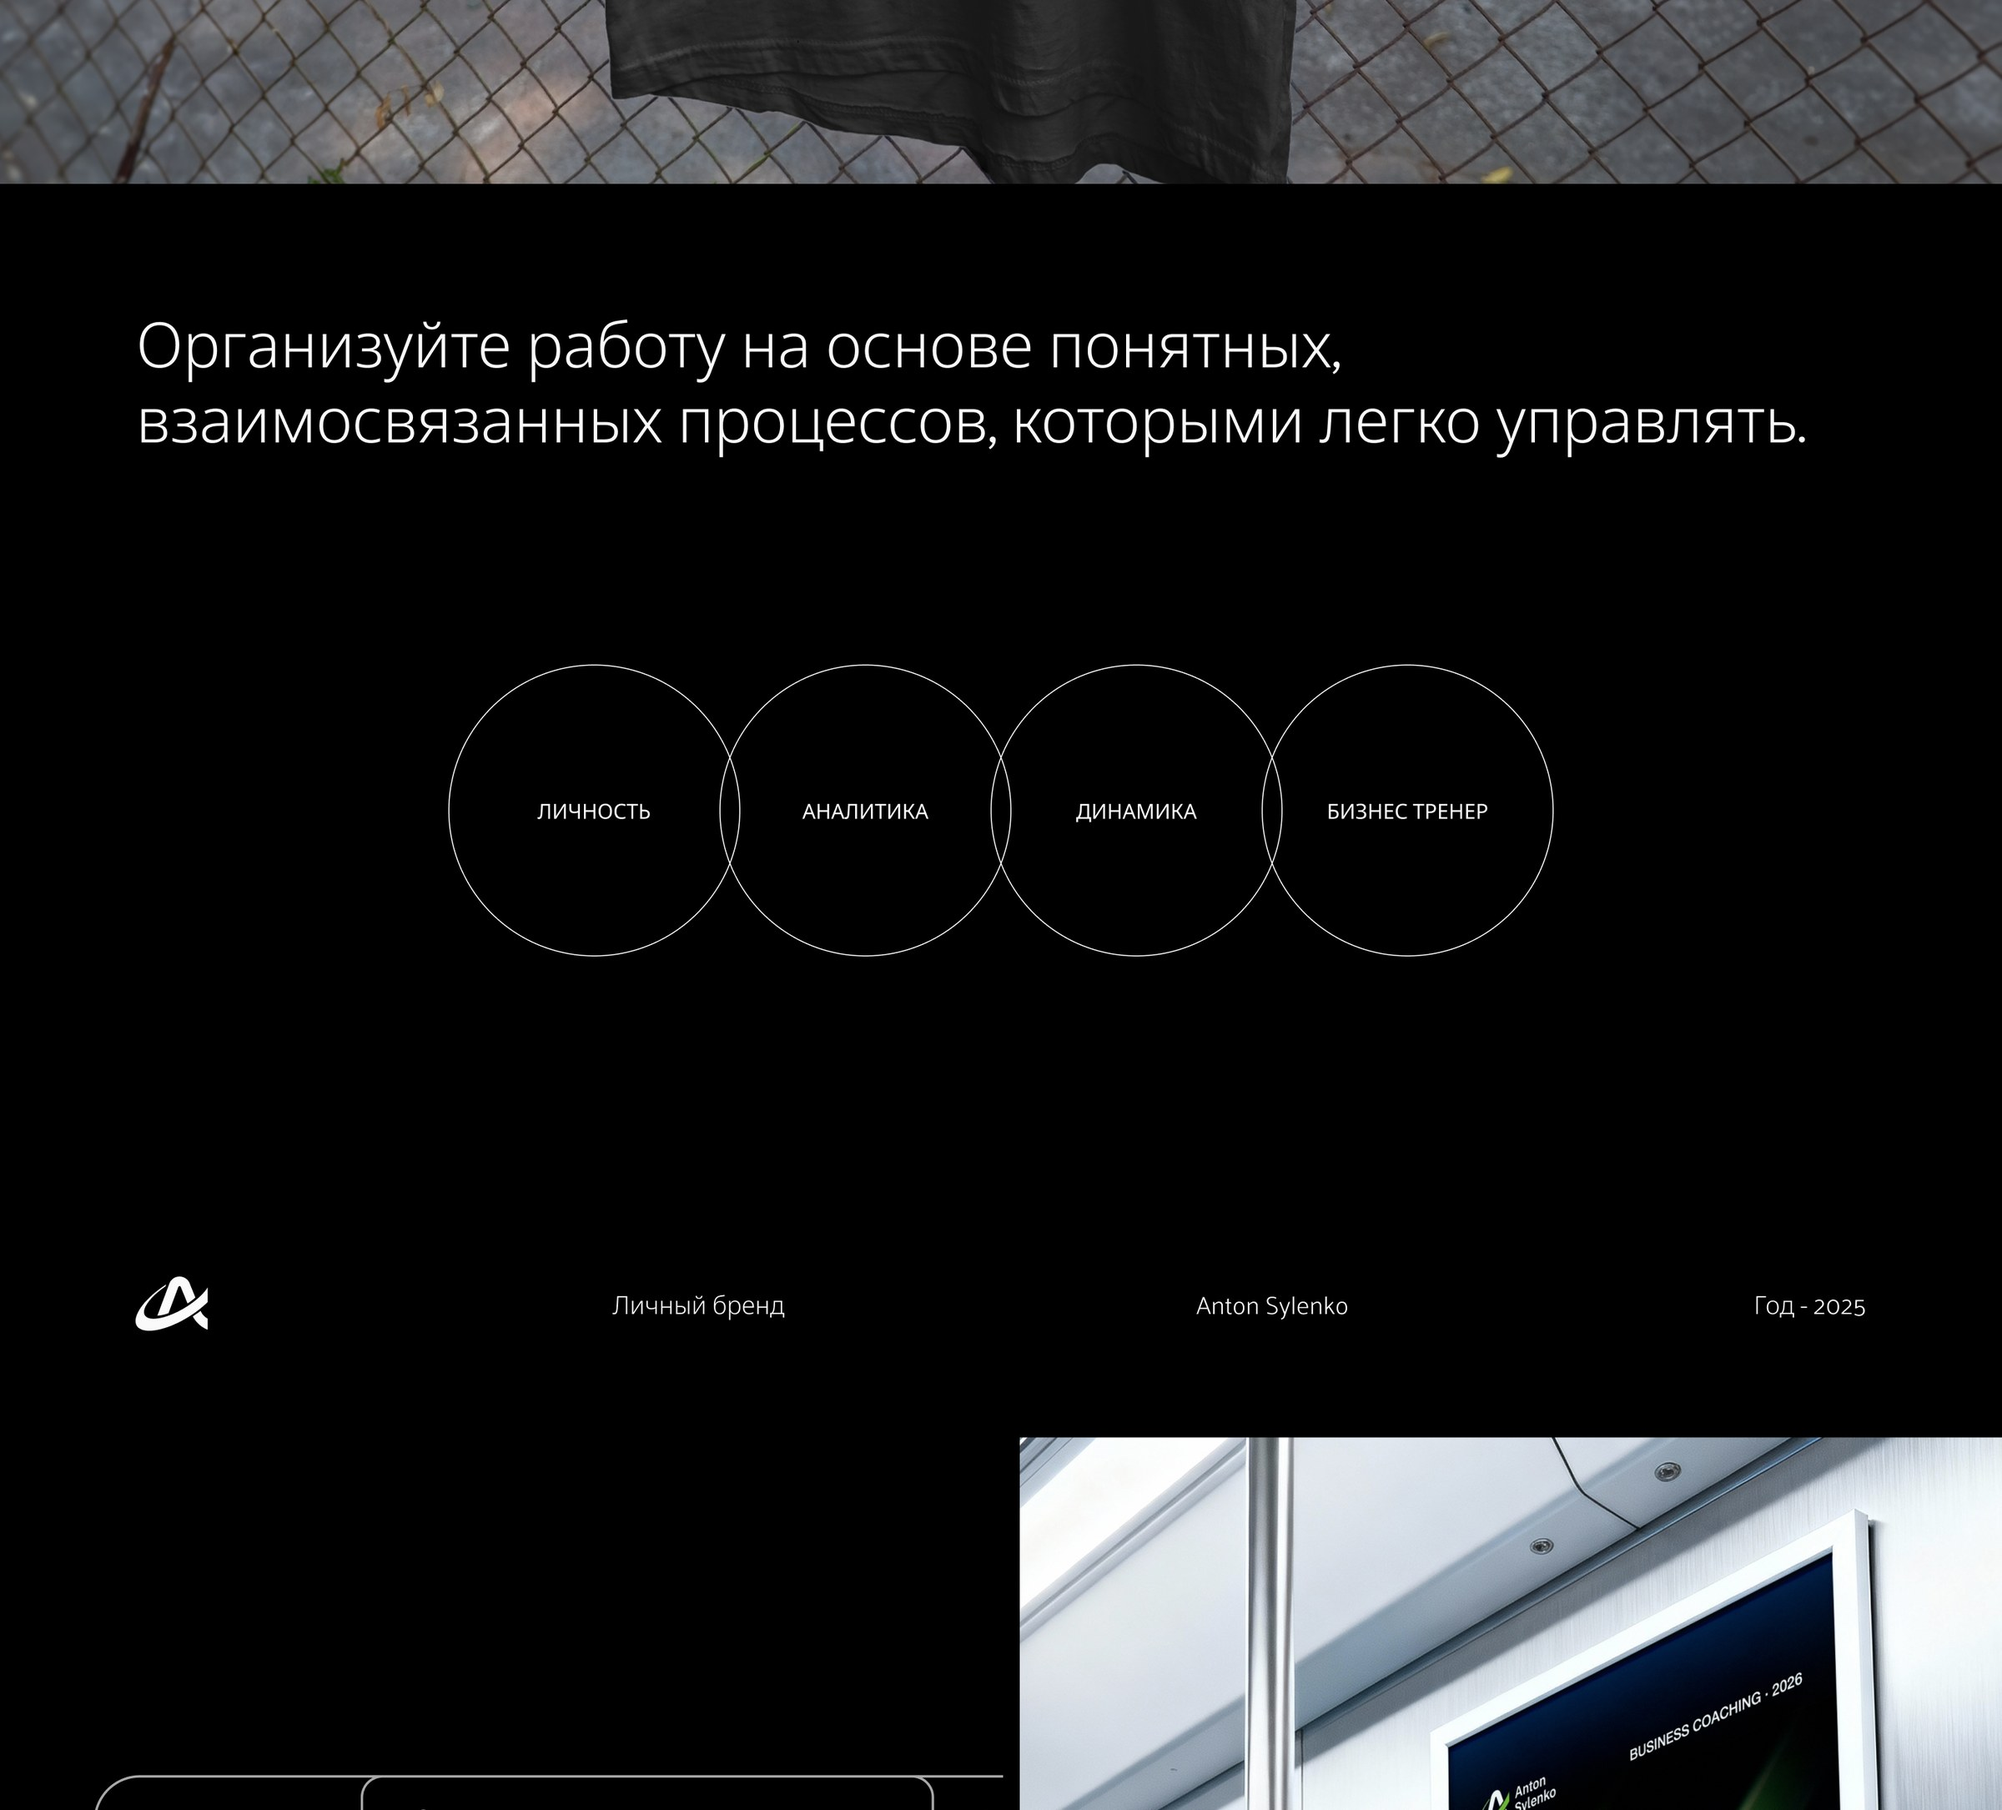
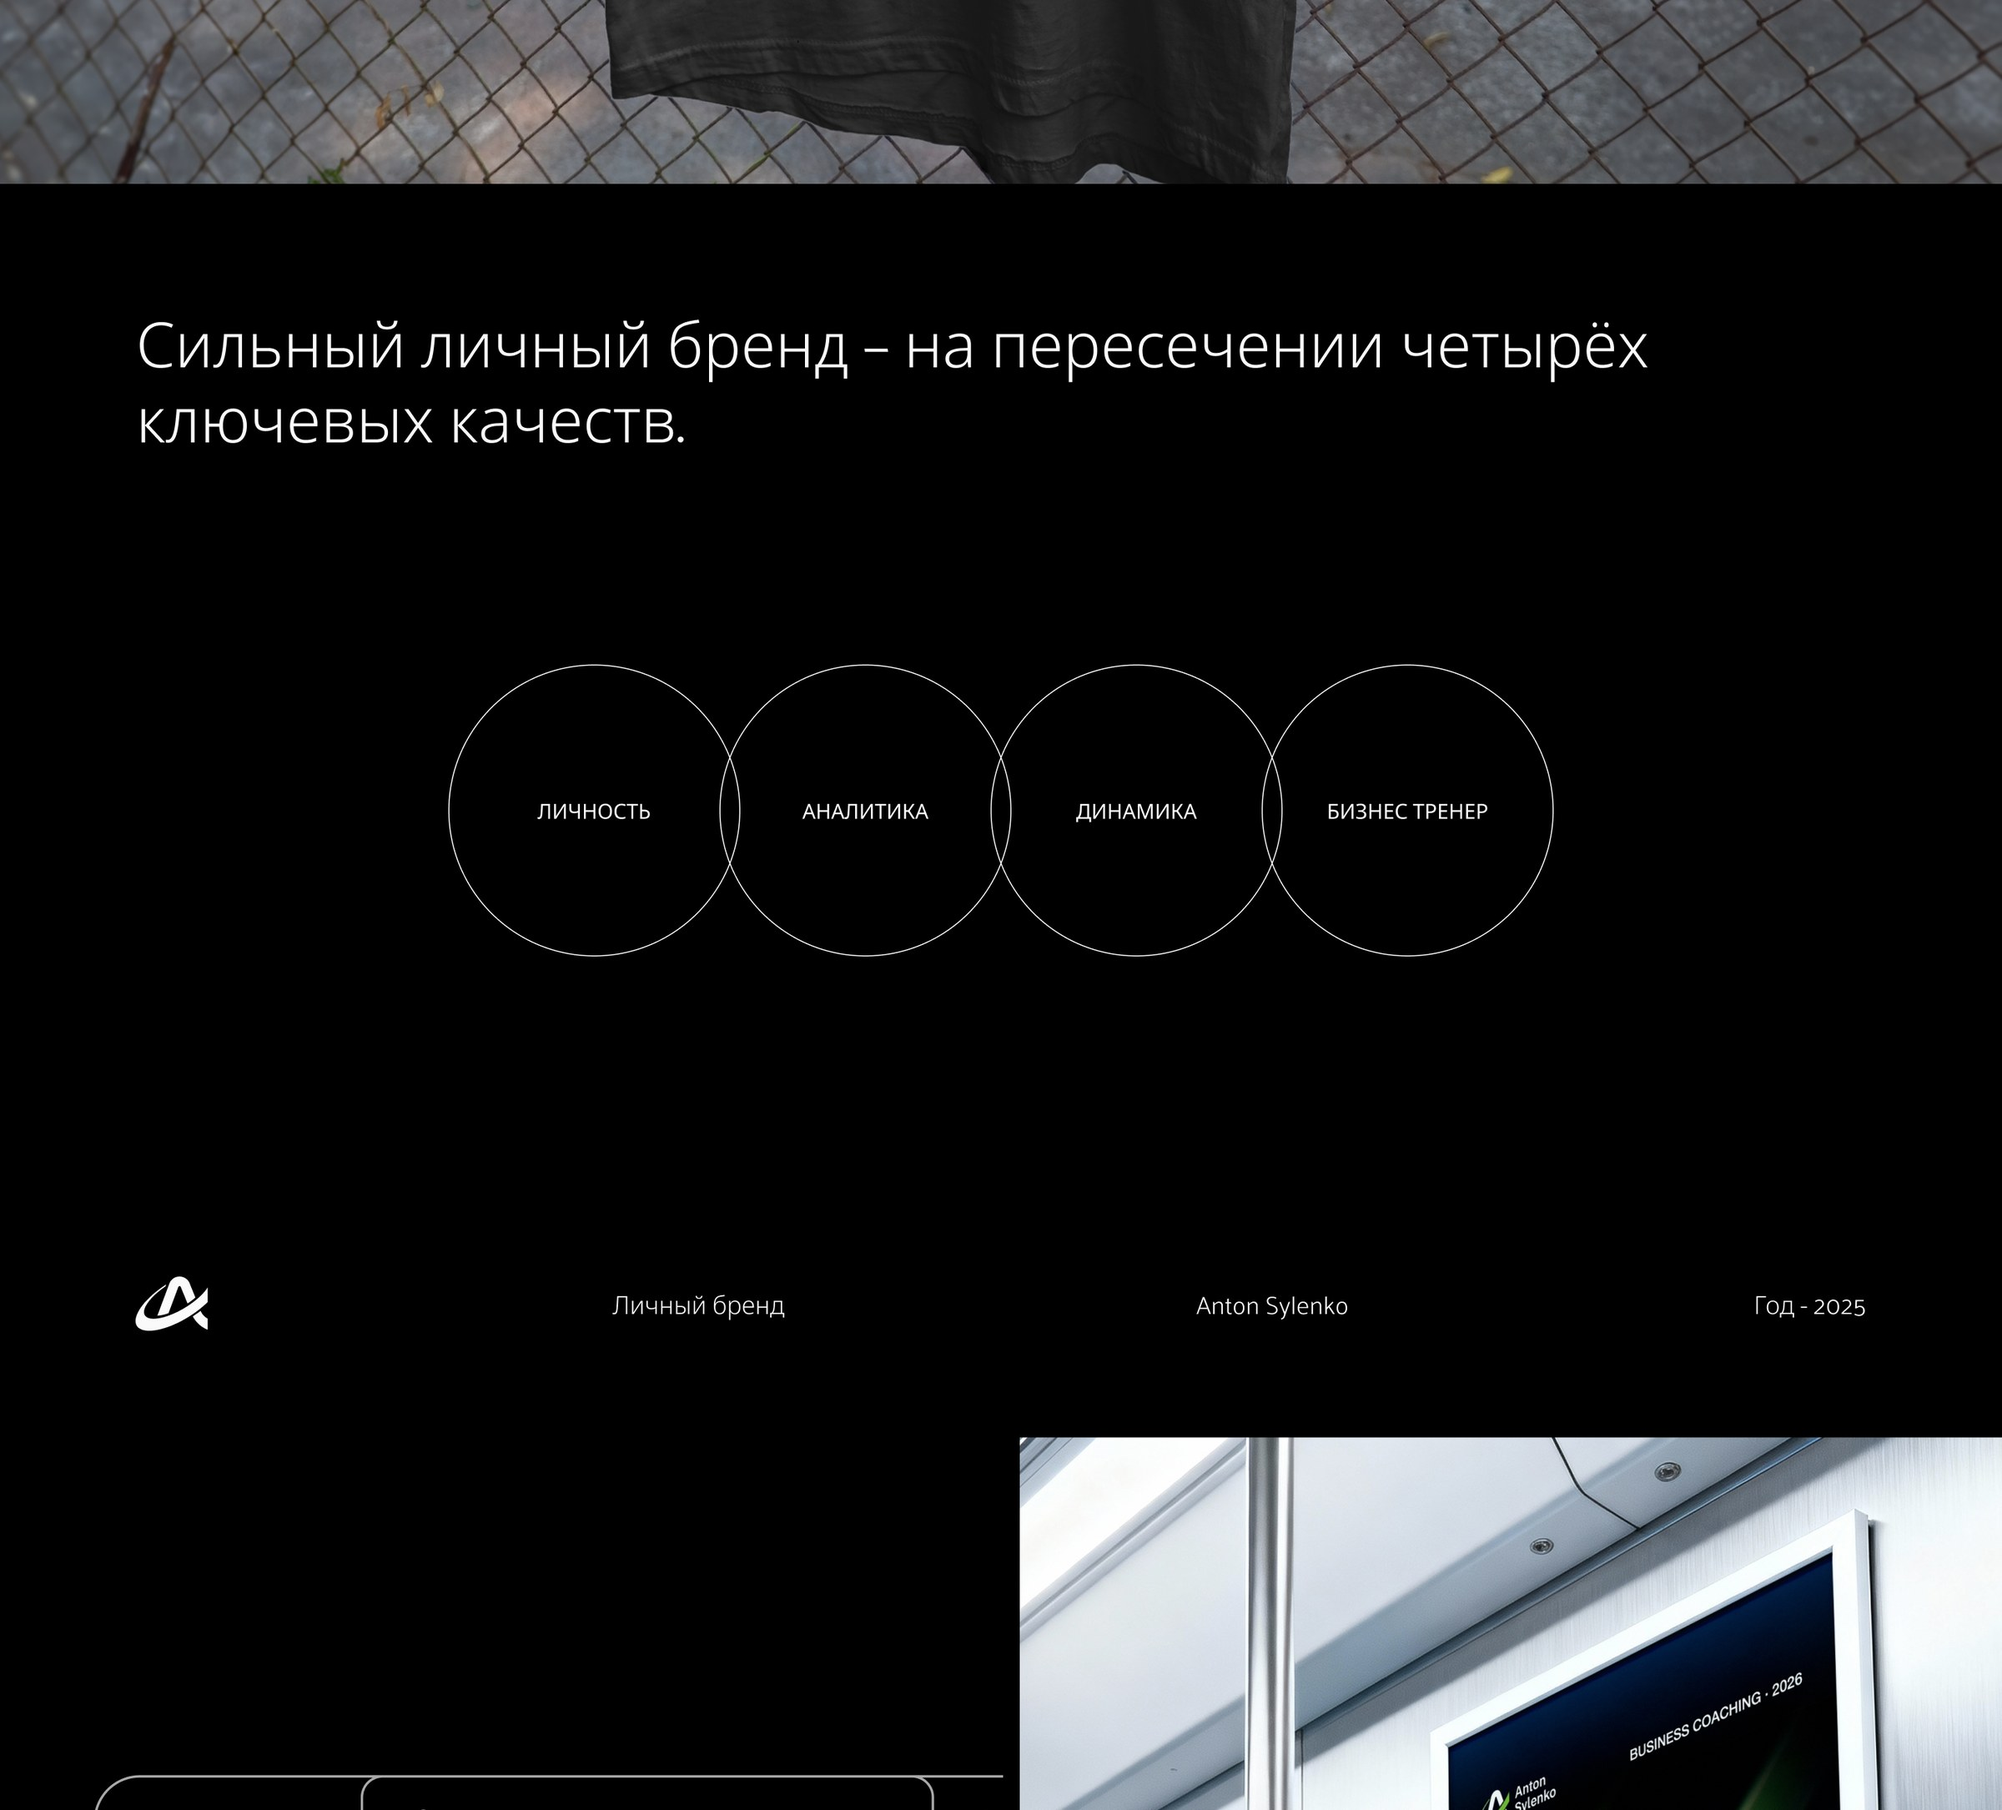
Anton Sylenko: заголовок слайда качеств переписан под круги (Figma + переэкспорт, v5)

Changed region(s): [[0.0625, 0.1853, 0.9062, 0.247]]

diff --git a/projects.js b/projects.js
@@ -224,14 +224,14 @@ window.PROJECTS = {
     hideHero: true,
     // Презентация один-в-один по макету Figma node 3367-33321 (секции full-bleed)
     blocks: [
-      { bleed: "assets/anton-1.jpg?v=3" },
-      { bleed: "assets/anton-2.jpg?v=3" },
-      { bleed: "assets/anton-3.jpg?v=3" },
-      { bleed: "assets/anton-4.jpg?v=3" },
-      { bleed: "assets/anton-5.jpg?v=3" },
-      { bleed: "assets/anton-6.jpg?v=3" },
-      { bleed: "assets/anton-7.jpg?v=3" },
-      { bleed: "assets/anton-8.jpg?v=3" },
+      { bleed: "assets/anton-1.jpg?v=5" },
+      { bleed: "assets/anton-2.jpg?v=5" },
+      { bleed: "assets/anton-3.jpg?v=5" },
+      { bleed: "assets/anton-4.jpg?v=5" },
+      { bleed: "assets/anton-5.jpg?v=5" },
+      { bleed: "assets/anton-6.jpg?v=5" },
+      { bleed: "assets/anton-7.jpg?v=5" },
+      { bleed: "assets/anton-8.jpg?v=5" },
     ],
   },
 

diff --git a/case.html b/case.html
@@ -46,7 +46,7 @@
   </button>
 
   <script src="https://cdn.jsdelivr.net/npm/lenis@1.1.14/dist/lenis.min.js"></script>
-  <script src="projects.js?v=108"></script>
+  <script src="projects.js?v=110"></script>
   <script src="case.js?v=62"></script>
   <script src="script.js?v=23"></script>
 </body>
